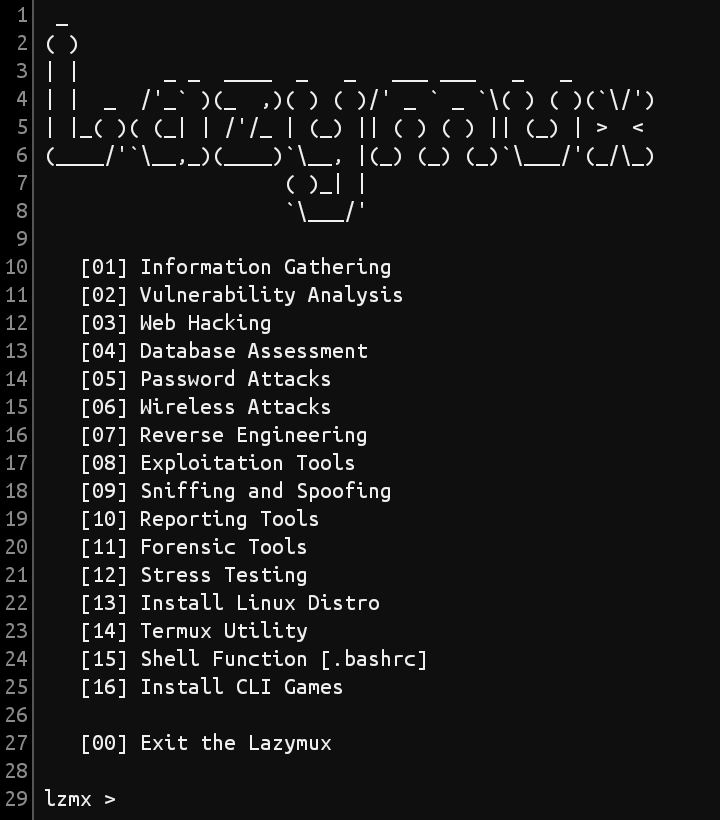
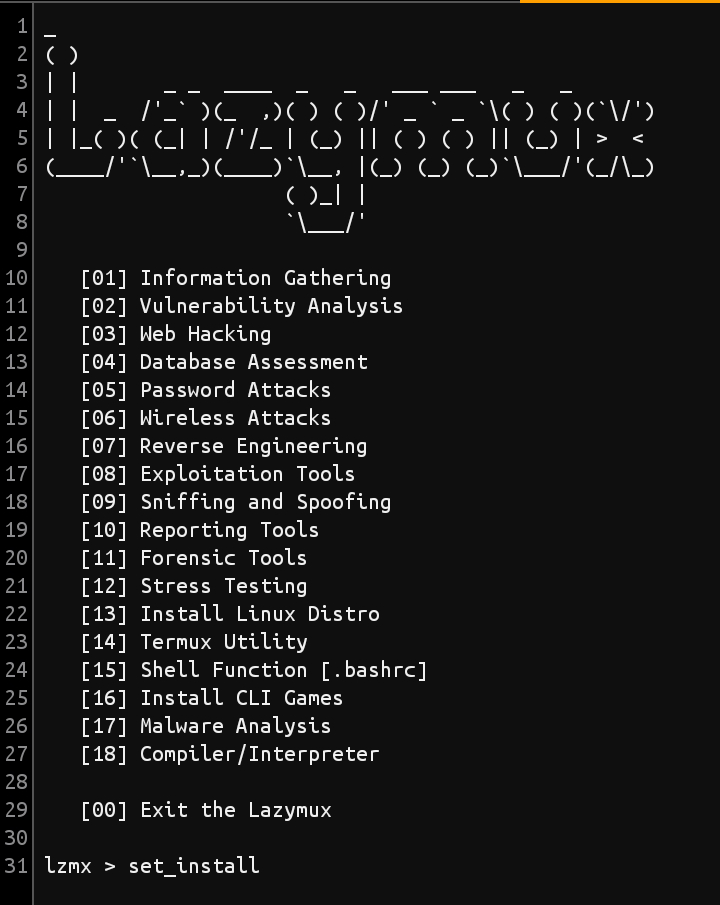
New categories tool: Malware Analysis & Compiler/Interpreter

diff --git a/lazymux.py b/lazymux.py
@@ -73,7 +73,7 @@ def main():
 		infogathering = input("lzmx > set_install ")
 		if infogathering == "@":
 			infogathering = ""
-			for x in range(1,38):
+			for x in range(1,40):
 				infogathering += f"{x} "
 		if len(infogathering.split()) > 1:
 			writeStatus(1)
@@ -379,7 +379,7 @@ def main():
 		reversi = input("lzmx > set_install ")
 		if reversi == "@":
 			reversi = ""
-			for x in range(1,6):
+			for x in range(1,10):
 				reversi += f"{x} "
 		if len(reversi.split()) > 1:
 			writeStatus(1)
@@ -608,17 +608,14 @@ def main():
 		print("    [17] RShell: Reverse shell for single listening")
 		print("    [18] TermPyter: Fix all error Jupyter installation on termux")
 		print("    [19] F4K3: Fake User Data Generator")
-		print("    [20] shc: Shell script compiler")
-		print("    [21] Octave: Scientific Programming Language")
-		print("    [22] fp-compiler: Free Pascal is a 32, 64 and 16 bit professional Pascal compiler")
-		print("    [23] Numpy: The fundamental package for scientific computing with Python")
-		print("    [24] ClickBot: Earn money using telegram bot")
-		print("    [25] BTC-to-IDR-checker: Check the exchange rate virtual money currency to Indonesia Rupiah from Bitcoin.co.id API")
+		print("    [20] BTC-to-IDR-checker: Check the exchange rate virtual money currency to Indonesia Rupiah from Bitcoin.co.id API")
+		print("    [21] ClickBot: Earn money using telegram bot")
+		print("    [22] Numpy: The fundamental package for scientific computing with Python")
 		print("\n    [00] Back to main menu\n")
 		moretool = input("lzmx > set_install ")
 		if moretool == "@":
 			moretool = ""
-			for x in range(1,24):
+			for x in range(1,23):
 				moretool += f"{x} "
 		if len(moretool.split()) > 1:
 			writeStatus(1)
@@ -644,12 +641,9 @@ def main():
 			elif moret.strip() == "17": rshell()
 			elif moret.strip() == "18": termpyter()
 			elif moret.strip() == "19": f4k3()
-			elif moret.strip() == "20": shc()
-			elif moret.strip() == "21": octave()
-			elif moret.strip() == "22": fpcompiler()
-			elif moret.strip() == "23": numpy()
-			elif moret.strip() == "24": clickbot()
-			elif moret.strip() == "25": btc2idr()
+			elif moret.strip() == "20": btc2idr()
+			elif moret.strip() == "21": clickbot()
+			elif moret.strip() == "22": numpy()
 			elif moret.strip() == "00" or moret.strip() == "0": restart_program()
 			else: print("\nERROR: Wrong Input");timeout(1);restart_program()
 		if readStatus():
@@ -703,7 +697,7 @@ def main():
 		cligam = input("lzmx > set_install ")
 		if cligam == "@":
 			cligam = ""
-			for x in range(1,23):
+			for x in range(1,9):
 				cligam += f"{x} "
 		if len(cligam.split()) > 1:
 			writeStatus(1)
@@ -723,6 +717,81 @@ def main():
 		if readStatus():
 			writeStatus(0)
 	
+	# 17 - Malware Analysis
+	elif lazymux.strip() == "17":
+		print("\n    [01] Lynis: Security Auditing and Rootkit Scanner")
+		print("    [02] Chkrootkit: A Linux Rootkit Scanners")
+		print("    [03] ClamAV: Antivirus Software Toolkit")
+		print("    [04] Yara: Tool aimed at helping malware researchers to identify and classify malware samples")
+		print("    [05] VirusTotal-CLI: Command line interface for VirusTotal")
+		print("\n    [00] Back to main menu\n")
+		malsys = input("lzmx > set_install ")
+		if malsys == "@":
+			malsys = ""
+			for x in range(1,6):
+				malsys += f"{x} "
+		if len(malsys.split()) > 1:
+			writeStatus(1)
+		else:
+			writeStatus(0)
+		for malx in malsys.split():
+			if malx.strip() == "01" or malx.strip() == "1": lynis()
+			elif malx.strip() == "02" or malx.strip() == "2": chkrootkit()
+			elif malx.strip() == "03" or malx.strip() == "3": clamav()
+			elif malx.strip() == "04" or malx.strip() == "4": yara()
+			elif malx.strip() == "05" or malx.strip() == "5": virustotal()
+			elif malx.strip() == "00" or malx.strip() == "0": restart_program()
+			else: print("\nERROR: Wrong Input");timeout(1);restart_program()
+		if readStatus():
+			writeStatus(0)
+	
+	# 18 - Compiler/Interpreter
+	elif lazymux.strip() == "18":
+		print("\n    [01] Python2: Python 2 programming language intended to enable clear programs")
+		print("    [02] ecj: Eclipse Compiler for Java")
+		print("    [03] Golang: Go programming language compiler")
+		print("    [04] ldc: D programming language compiler, built with LLVM")
+		print("    [05] Nim: Nim programming language compiler")
+		print("    [06] shc: Shell script compiler")
+		print("    [07] TCC: Tiny C Compiler")
+		print("    [08] PHP: Server-side, HTML-embedded scripting language")
+		print("    [09] Ruby: Dynamic programming language with a focus on simplicity and productivity")
+		print("    [10] Perl: Capable, feature-rich programming language")
+		print("    [11] Vlang: Simple, fast, safe, compiled language for developing maintainable software")
+		print("    [12] BeanShell: Small, free, embeddable, source level Java interpreter with object based scripting language features written in Java")
+		print("    [13] fp-compiler: Free Pascal is a 32, 64 and 16 bit professional Pascal compiler")
+		print("    [14] Octave: Scientific Programming Language")
+		print("    [15] BlogC: A blog compiler")
+		print("\n    [00] Back to main menu\n")
+		compter = input("lzmx > set_install ")
+		if compter == "@":
+			compter = ""
+			for x in range(1,16):
+				compter += f"{x} "
+		if len(compter.split()) > 1:
+			writeStatus(1)
+		else:
+			writeStatus(0)
+		for compt in compter.split():
+			if compt.strip() == "01" or compt.strip() == "1": python2()
+			elif compt.strip() == "02" or compt.strip() == "2": ecj()
+			elif compt.strip() == "03" or compt.strip() == "3": golang()
+			elif compt.strip() == "04" or compt.strip() == "4": ldc()
+			elif compt.strip() == "05" or compt.strip() == "5": nim()
+			elif compt.strip() == "06" or compt.strip() == "6": shc()
+			elif compt.strip() == "07" or compt.strip() == "7": tcc()
+			elif compt.strip() == "08" or compt.strip() == "8": php()
+			elif compt.strip() == "09" or compt.strip() == "9": ruby()
+			elif compt.strip() == "10": perl()
+			elif compt.strip() == "11": vlang()
+			elif compt.strip() == "12": beanshell()
+			elif compt.strip() == "13": fpcompiler()
+			elif compt.strip() == "14": octave()
+			elif compt.strip() == "15": blogc()
+			elif compt.strip() == "00" or compt.strip() == "0": restart_program()
+			else: print("\nERROR: Wrong Input");timeout(1);restart_program()
+		if readStatus():
+			writeStatus(0)
 	elif lazymux.strip() == "00":
 		sys.exit()
 	

diff --git a/core/lzmcore.py b/core/lzmcore.py
@@ -1603,6 +1603,146 @@ def innoextract():
 	print("###### Type 'innoextract' to start.")
 	backtomenu_option()
 
+def lynis():
+	print('\n###### Installing Lynis')
+	os.system('apt update -y && apt upgrade -y')
+	os.system('apt install git -y')
+	os.system('git clone https://github.com/CISOfy/lynis')
+	os.system('mv lynis {}'.format(homeDir))
+	print('###### Done')
+	backtomenu_option()
+
+def chkrootkit():
+	print('\n###### Installing Chkrootkit')
+	os.system('apt update -y && apt upgrade -y')
+	os.system('apt install clang git -y')
+	os.system('git clone https://github.com/Magentron/chkrootkit')
+	os.system('mv chkrootkit {}'.format(homeDir))
+	print('###### Done')
+	backtomenu_option()
+
+def clamav():
+	print('\n###### Installing ClamAV')
+	os.system('apt update -y && apt upgrade -y')
+	os.system('apt install clamav -y')
+	os.system('freshclam')
+	print('###### Done')
+	print("###### Type 'clamscan' to start.")
+	backtomenu_option()
+
+def yara():
+	print('\n###### Installing Yara')
+	os.system('apt update -y && apt upgrade -y')
+	os.system('apt install yara -y')
+	print('###### Done')
+	print("###### Type 'yara' to start.")
+	backtomenu_option()
+
+def virustotal():
+	print('\n###### Installing VirusTotal-CLI')
+	os.system('apt update -y && apt upgrade -y')
+	os.system('apt install virustotal-cli -y')
+	print('###### Done')
+	print("###### Type 'vt' to start.")
+	backtomenu_option()
+
+### Compiler/Interpreter
+def python2():
+	print('\n###### Installing Python2')
+	os.system('apt update -y && apt upgrade -y')
+	os.system('apt install python2 -y')
+	print('###### Done')
+	print("###### Type 'python2' to start.")
+	backtomenu_option()
+
+def ecj():
+	print('\n###### Installing ecj')
+	os.system('apt update -y && apt upgrade -y')
+	os.system('apt install ecj -y')
+	print('###### Done')
+	print("###### Type 'ecj' to start.")
+	backtomenu_option()
+
+def golang():
+	print('\n###### Installing Golang')
+	os.system('apt update -y && apt upgrade -y')
+	os.system('apt install golang -y')
+	print('###### Done')
+	print("###### Type 'go' to start.")
+	backtomenu_option()
+
+def ldc():
+	print('\n###### Installing ldc')
+	os.system('apt update -y && apt upgrade -y')
+	os.system('apt install ldc -y')
+	print('###### Done')
+	print("###### Type 'ldc2' to start.")
+	backtomenu_option()
+
+def nim():
+	print('\n###### Installing Nim')
+	os.system('apt update -y && apt upgrade -y')
+	os.system('apt install nim -y')
+	print('###### Done')
+	print("###### Type 'nim' to start.")
+	backtomenu_option()
+
+def shc():
+	print('\n###### Installing shc')
+	os.system('apt update -y && apt upgrade -y')
+	os.system('apt install shc -y')
+	print('###### Done')
+	print("###### Type 'shc' to start.")
+	backtomenu_option()
+
+def tcc():
+	print('\n###### Installing TCC')
+	os.system('apt update -y && apt upgrade -y')
+	os.system('apt install tcc -y')
+	print('###### Done')
+	print("###### Type 'tcc' to start.")
+	backtomenu_option()
+
+def php():
+	print('\n###### Installing PHP')
+	os.system('apt update -y && apt upgrade -y')
+	os.system('apt install php -y')
+	print('###### Done')
+	print("###### Type 'php' to start.")
+	backtomenu_option()
+
+def ruby():
+	print('\n###### Installing Ruby')
+	os.system('apt update -y && apt upgrade -y')
+	os.system('apt install ruby -y')
+	print('###### Done')
+	print("###### Type 'ruby' to start.")
+	backtomenu_option()
+
+def perl():
+	print('\n###### Installing Perl')
+	os.system('apt update -y && apt upgrade -y')
+	os.system('apt install perl -y')
+	print('###### Done')
+	print("###### Type 'perl' to start.")
+	backtomenu_option()
+
+def vlang():
+	print('\n###### Installing Vlang')
+	os.system('apt update -y && apt upgrade -y')
+	os.system('apt install vlang -y')
+	print('###### Done')
+	print("###### Type 'vlang' to start.")
+	backtomenu_option()
+
+def blogc():
+	print('\n###### Installing BlogC')
+	os.system('apt update -y && apt upgrade -y')
+	os.system('apt install blogc -y')
+	print('###### Done')
+	print("###### Type 'blogc' to start.")
+	backtomenu_option()
+
 ### termux games
 def street_car():
 	print('\n###### Installing street-car')
@@ -1632,6 +1772,7 @@ def speed_typing():
 	backtomenu_option()
 
 def nsnake():
+	print('\n###### Installing nsnake')
 	os.system('apt update -y && apt upgrade -y')
 	os.system('apt install nsnake -y')
 	print('###### Done')
@@ -1641,7 +1782,7 @@ def nsnake():
 def nudoku():
 	print('\n###### Installing Sudoku')
 	os.system('apt update -y && apt upgrade -y')
-	os.system('apg install nudoku -y')
+	os.system('apt install nudoku -y')
 	print('###### Done')
 	print("###### Type 'nudoku' to start.")
 	backtomenu_option()
@@ -1649,7 +1790,7 @@ def nudoku():
 def moon_buggy():
 	print('\n###### Installing Moon-Buggy')
 	os.system('apt update -y && apt upgrade -y')
-	os.system('apg install moon-buggy -y')
+	os.system('apt install moon-buggy -y')
 	print('###### Done')
 	print("###### Type 'moon-buggy' to start.")
 	backtomenu_option()
@@ -1657,7 +1798,7 @@ def moon_buggy():
 def ttysolitaire():
 	print('\n###### Installing tty-solitaire')
 	os.system('apt update -y && apt upgrade -y')
-	os.system('apg install tty-solitaire -y')
+	os.system('apt install tty-solitaire -y')
 	print('###### Done')
 	print("###### Type 'ttysolitaire' to start.")
 	backtomenu_option()
@@ -1665,7 +1806,7 @@ def ttysolitaire():
 def pacman4console():
 	print('\n###### Installing Pacman4Console')
 	os.system('apt update -y && apt upgrade -y')
-	os.system('apg install pacman4console -y')
+	os.system('apt install pacman4console -y')
 	print('###### Done')
 	print("###### Type 'pacman' to start.")
 	backtomenu_option()
